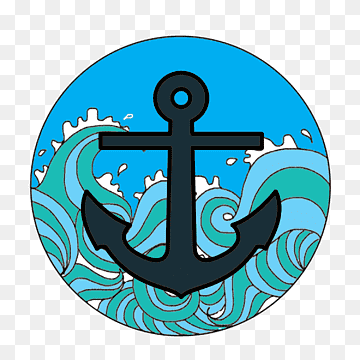
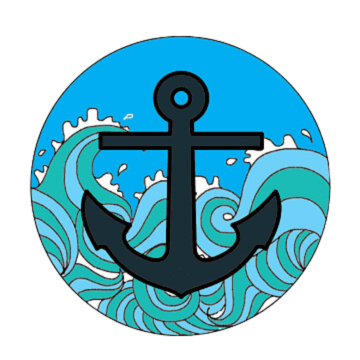
Edited the images and added a new service page

diff --git a/index.html b/index.html
@@ -13,7 +13,7 @@
   <meta name="author" content="" />
 
   <title>AnchoredLife</title>
-
+?
   <!-- slider stylesheet -->
   <link rel="stylesheet" type="text/css"
     href="https://cdnjs.cloudflare.com/ajax/libs/OwlCarousel2/2.1.3/assets/owl.carousel.min.css" />
@@ -116,11 +116,13 @@
                       </h2>
                       
                       <p>
-                        AnchoredLife partners with you on a journey to rediscovering and transforming your life through Christ.
+                        Our coaching is based on the foundation that God is the source of all achievement. 
+                        We endeavour to help you through the Holy Spirit, shape new visions and plans, 
+                        create a sense of purpose, and establish appropriate goals and objectives to generate desired results.
                       </p>
                       <div class="btn-box">
                         <a href="service_1.html" class="btn-1">
-                          Read More
+                          Take your first step
                         </a>
                         
                       </div>
@@ -138,11 +140,12 @@
                         A fulfilled life is possible in God.
                       </h2>
                       <p>
-                        You were created for a reason and you have a unique purpose in life. 
+                        The guidance we offer is Biblical and applicable to everyday life to equip,
+                         empower, and encourage you. We partner with you to help you fully understand your God-given purpose and assignment.
                       </p>
                       <div class="btn-box">
                         <a href="service_2.html" class="btn-1">
-                          Read More
+                          Take your first step
                         </a>
                       
                       </div>
@@ -161,11 +164,12 @@
                       </h2>
                       
                       <p>
-                        Happiness comes from centering your life around Christ 
+                        We desire to see people pursue fulfillment in Christ and thrive in their lives. 
+                        Find out how we can help you by browsing through our programs and courses. 
                       </p>
                       <div class="btn-box">
                         <a href="service_3.html" class="btn-1">
-                          Read More
+                          Take your first step
                         </a>
                         
                       </div>

diff --git a/about.html b/about.html
@@ -117,29 +117,28 @@
         </div>
         <div class="detail-box">
           <p>
-            When you find yourself in a place where you feel hopeless and tired, giving up on your dreams and vision seems like the best solution for you. 
-            AnchoredLife partners with you on a journey to rediscovering and transforming your life. Using biblical foundations and tools, 
-            we help you discover the fulfilled life that God has ordained for you
+            AnchoredLife partners with you on a journey to rediscovering and transforming your life. We use Biblical 
+            foundations and tools to assist you set and
+             reaching your goals, maximizing your potential, and stepping more fully into your God-given calling.
+              Our role is to come alongside you as your accountability partner and to guide you on your journey taking into account that the final authority over your life is God, and every decision you make should be influenced by Him.
           </p>
 
-          <p>
-            “Therefore everyone who hears these words of mine and puts them into practice is like a wise man who built his house on the rock. 
-            The rain came down, the streams rose, and the winds blew and beat against that house; yet it did not fall,
-             because it had its foundation on the rock.”
-             Matthew 7:24-25
+          <h6><span><b>Our Biblical Foundation</b></span></h6>
 
-          </p>
+      
 
           <p>
-            Matthew 7:24-25
-           <span><b>“I am available for” should be changed to “What we offer”</b></span>
+            “Therefore everyone who hears these words of mine and puts them into practice is like 
+            a wise man who built his house on the rock. The rain came down, the streams rose, 
+            and the winds blew and beat against that house; yet it did not fall, because it had its foundation on the rock.”
+
+
+           <span><b>Matthew 7:24-25</b></span>
 
           </p>
 
           
-          <a href="">
-            Read More
-          </a>
+         
         </div>
       </div>
     </div>

diff --git a/contact.html b/contact.html
@@ -114,11 +114,29 @@
       
         <div class="detail-box">
 
-          <ul >
-            <li>Physical address : <b>308 Fern Avenue, Ferndale, Randburg,2166</b> </li>
-            <li>Email : <b>Info@AnchoredLife.co.za</b> </li>
-            <li>Phone Number : <b>0624499382</b> </li>
-          </ul>
+          
+           <h6><b>Details at the bottom of every page I think</b></h6>
+           <p>
+            <b>Get started</b>
+            Coaching can be done face to face, or via Skype, Zoom, or any online platform to fit in with your busy schedule.
+          </p>
+
+          <h6><b>Are you ready to Transform your Life?</b></h6>
+          <p>
+            "Whether you're at a crossroads, turning a new page, or just wanting to live to the fullest where you are.
+             AnchoredLife will help you achieve that goal in life.
+
+          </p>
+
+          <h6><b>Sessions</b></h6>
+          <p>
+            Free Coaching Sessions:
+            All free coaching sessions are conducted once every 2 months via Zoom or Skype. 
+            Stay connected to our Website to see when the next session will be.
+
+          </p>
+
+
           
         </div>
       </div>

diff --git a/service_1.html b/service_1.html
@@ -119,9 +119,18 @@
         <div class="detail-box">
             <p>
 
-                Where we work with you to create personal and professional development goals and
-                 help you create structures that make achieving those goals easier.
+              Where we work with you to create personal and professional development goals and help you create structures that
+               make achieving those goals easier. 
+              In our <span><b>one-on-one coaching sessions</b></span> we support you  in reaching your professional and personal goals. 
+              The coaching is individualized and offers more personalized attention and tailored strategies. 
+              
 
+            </p>
+
+            <p>
+              Our <span><b>group coaching sessions</b></span> are for groups who want to work together to achieve a
+               common goal or for individuals who prefer to work with other people with similar needs.
+                They are ideal for people who want to foster social connections,  share insights, learn from others and increase self-awareness.
             </p>
         </div>
        

diff --git a/service.html b/service.html
@@ -130,7 +130,7 @@
           </div>
         </div>
         <div class="box">
-          <img src="images/s_2.jpg" alt="">
+          <img src="images/s_2.png" alt="">
           <h6 class="visible_heading">
             Resources 
           </h6>
@@ -144,7 +144,7 @@
           </div>
         </div>
         <div class="box">
-          <img src="images/s_3.jpg" alt="">
+          <img src="images/s_3.png" alt="">
           <h6 class="visible_heading">
             Training
           </h6>
@@ -154,6 +154,21 @@
             </a>
             <h6>
               Training
+            </h6>
+          </div>
+        </div>
+
+        <div class="box">
+          <img src="images/s_4.png" alt="">
+          <h6 class="visible_heading">
+            Anchored Youth
+          </h6>
+          <div class="link_box">
+            <a href="service_4.html">
+              <img src="images/link.png" alt="">
+            </a>
+            <h6>
+              Anchored Youth 
             </h6>
           </div>
         </div>

diff --git a/service_4.html b/service_4.html
@@ -109,7 +109,7 @@
     <div class="container">
       <div class="heading_container">
         <h2>
-          Training
+          Anchored Youth
         </h2>
       </div>
       <div class="service_container">
@@ -119,9 +119,9 @@
         <div class="detail-box">
             <p>
 
-              We offer leadership training and courses that are aimed at equipping leaders with tools that aid them in their
-               Organizations and/or in Ministry. 
-              This is a good opportunity for leaders, or individuals to grow their knowledge and improve their leadership skills.
+                AnchoredYouth is a ministry for young people . We offer short courses, trainings,
+                 and retreats for young people who are struggling in
+                 their daily lives and need special guidance to discover their God-given purpose.
             </p>
         </div>
        

diff --git a/service_2.html b/service_2.html
@@ -119,9 +119,8 @@
         <div class="detail-box">
             <p>
 
-                Browse through our resources and materials which are biblically based
-                 and created to help you in navigating your daily life,
-                  and transforming your everyday relationships.
+              Browse through our resources and materials which were created to help you 
+              navigate your daily life, and transform your everyday relationships.
 
             </p>
         </div>
